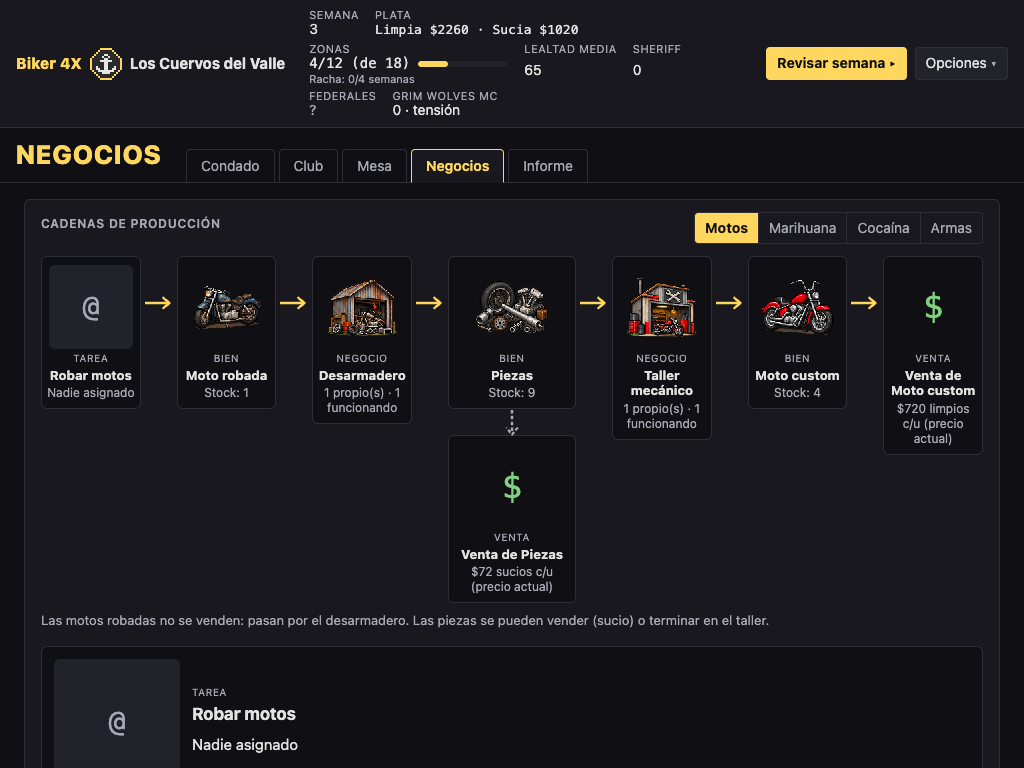
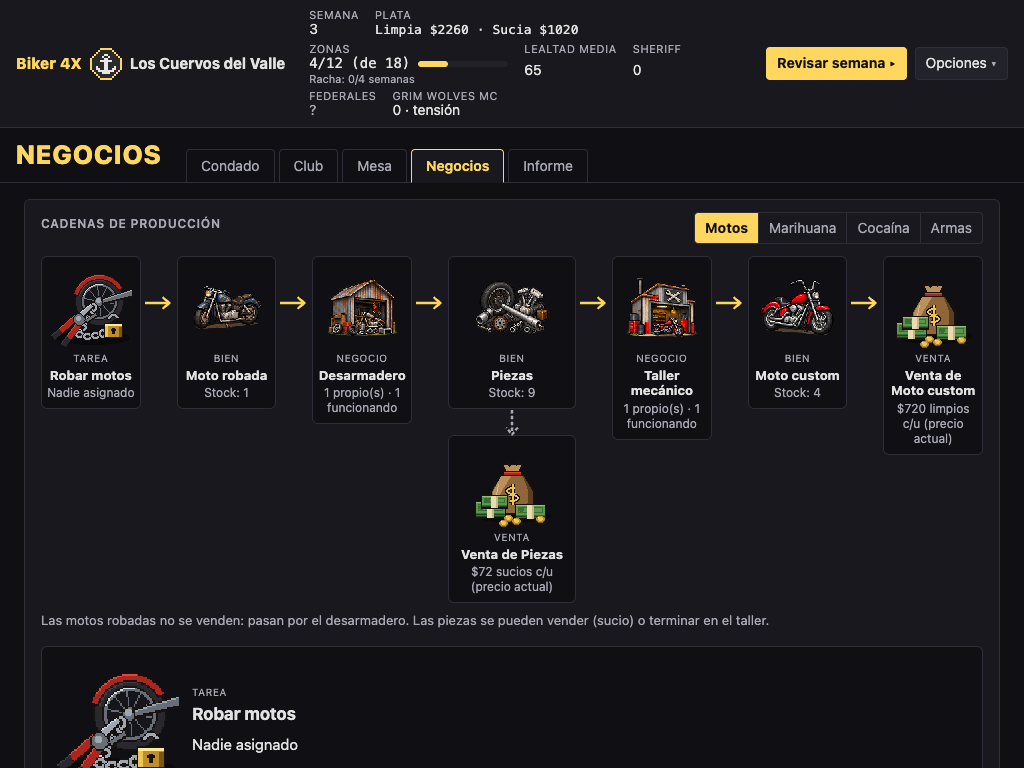
Ilustraciones de Robar motos y Venta dibujadas con código en el estilo del atlas; integradas en las cadenas

diff --git a/tests/revamp.test.ts b/tests/revamp.test.ts
@@ -1,5 +1,6 @@
 import { readFileSync } from "node:fs";
 import { describe, expect, it } from "vitest";
+import extra from "../assets/ui/illustrations-extra.json";
 import manifest from "../assets/ui/source/assets-manifest.json";
 import { addBusiness } from "../src/sim/systems/businesses";
 import { stanceKey } from "../src/sim/systems/diplomacy";
@@ -314,14 +315,24 @@ describe("sede, lavado, cabecera y mesa", () => {
 
 describe("ilustraciones de la interfaz", () => {
   it("hay un PNG por asset del manifest y todos los ids de juego existen", () => {
-    const ids = new Set([...baseData.goods.map((g) => g.id), ...baseData.businesses.map((b) => b.id)]);
+    const ids = new Set([...baseData.goods.map((g) => g.id), ...baseData.businesses.map((b) => b.id), ...baseData.tasks.map((t) => t.id)]);
     expect(manifest.assets).toHaveLength(16);
-    for (const a of manifest.assets) {
+    for (const a of [...manifest.assets, ...extra.assets]) {
       const png = readFileSync(new URL(`../assets/ui/illustrations/${a.filename}`, import.meta.url));
       expect(png.subarray(1, 4).toString(), a.filename).toBe("PNG");
       // 252×252 canvas (width and height in the IHDR chunk).
       expect([png.readUInt32BE(16), png.readUInt32BE(20)], a.filename).toEqual([252, 252]);
       if (a.gameId) expect(ids.has(a.gameId), a.gameId).toBe(true);
+    }
+  });
+
+  it("cada nodo de las cadenas tiene ilustración (robar motos y venta incluidas)", () => {
+    const known = new Set([...manifest.assets, ...extra.assets].map((a) => a.id));
+    const state = newState();
+    for (const id of CHAIN_IDS) {
+      for (const n of chainView(state, baseData, PLAYER, id, { draft: {}, management: [] }).nodes) {
+        expect(n.illustrationId && known.has(n.illustrationId), `${id}: ${n.key}`).toBe(true);
+      }
     }
   });
 

diff --git a/src/ui/panels/business.ts b/src/ui/panels/business.ts
@@ -49,7 +49,7 @@ function nodeCard(ctx: UiContext, node: ChainNode): HTMLElement {
       onclick: () => set({ chainNode: selected ? null : node.key }),
     },
     [
-      node.kind === "sale" ? h("span", { class: "sale-badge", "aria-hidden": "true" }, ["$"]) : illustration(node.illustrationId, "medium", name, node.glyph),
+      illustration(node.illustrationId, "medium", name, node.glyph),
       h("span", { class: "node-kind" }, [tr(`chain.kind.${node.kind}`)]),
       h("strong", { class: "node-name" }, [name]),
       h("span", { class: "node-status" }, [msg(data, node.status)]),
@@ -206,7 +206,7 @@ function nodeDetail(ctx: UiContext, view: ChainView): HTMLElement {
     node.kind === "good" ? goodDetail(ctx, node) : node.kind === "business" ? businessDetail(ctx, node) : node.kind === "task" ? taskDetail(ctx, node) : node.kind === "cartel" ? cartelDetail(ctx, node) : saleDetail(ctx, node);
   return h("aside", { class: "chain-detail", "aria-live": "polite" }, [
     h("div", { class: "detail-head" }, [
-      node.kind === "sale" ? null : illustration(node.illustrationId, "large", name, node.glyph),
+      illustration(node.illustrationId, "large", name, node.glyph),
       h("div", {}, [h("span", { class: "node-kind" }, [tr(`chain.kind.${node.kind}`)]), h("h2", {}, [name]), h("p", {}, [msg(data, node.status)])]),
     ]),
     node.blocked ? h("p", { class: "block-msg" }, [h("strong", {}, [tr("chain.blocked_short"), ": "]), msg(data, node.blocked)]) : null,

diff --git a/src/ui/productionChains.ts b/src/ui/productionChains.ts
@@ -183,12 +183,16 @@ function nodeKey(step: StepDef): string {
   }
 }
 
-/** Illustration for a game id, following assets-manifest.json (tasks reuse other pictures). */
+/** Illustration for a task: its own (illustrations-extra.json) or one reused per assets-manifest.json. */
 export const TASK_ILLUSTRATIONS: Record<string, string> = {
+  task_steal_bikes: "task_steal_bikes",
   task_cultivate: "business_plantation",
   task_retail: "distribution_task",
   task_gun_run: "distribution_task",
 };
+
+/** Every sale node shows the money illustration; the price and currency are written next to it. */
+export const SALE_ILLUSTRATION = "sale_money";
 
 function businessStatus(state: GameState, b: GameState["businesses"][number]): "working" | "new" | "suspended" {
   return b.suspended ? "suspended" : b.builtWeek >= state.week ? "new" : "working";
@@ -353,7 +357,7 @@ function saleNode(state: GameState, data: GameData, goodId: string, via: string 
     kind: "sale",
     refId: goodId,
     nameKey: via ? "chain.sale.task" : "chain.sale.management",
-    illustrationId: null,
+    illustrationId: SALE_ILLUSTRATION,
     glyph: "$",
     status: price === null ? { key: "ui.biz.not_sold" } : { key: "chain.sale.price", params: { price, currencyKey: currencyKey ?? "" } },
     blocked: null,

diff --git a/src/ui/assets.ts b/src/ui/assets.ts
@@ -2,6 +2,7 @@
 // Only for interface panels: map tiles never use them. URLs come from Vite, so they work in dev, in the build and
 // in the Tauri app. A missing or broken picture falls back to the game's glyph, without breaking the panel.
 
+import extra from "../../assets/ui/illustrations-extra.json";
 import manifest from "../../assets/ui/source/assets-manifest.json";
 import { h } from "./dom";
 
@@ -12,7 +13,8 @@ export const ILLUSTRATION_SIZE = 252;
 export const ILLUSTRATION_SIZES = { small: ILLUSTRATION_SIZE / 4, medium: ILLUSTRATION_SIZE / 3, large: ILLUSTRATION_SIZE / 2 } as const;
 export type IllustrationSize = keyof typeof ILLUSTRATION_SIZES;
 
-const byId = new Map(manifest.assets.map((a) => [a.id, a.filename]));
+/** Atlas cuts plus the illustrations drawn with code (scripts/draw-ui-illustrations.py). */
+const byId = new Map([...manifest.assets, ...extra.assets].map((a) => [a.id, a.filename]));
 
 export function illustrationUrl(id: string | null): string | null {
   const file = id ? byId.get(id) : undefined;

diff --git a/src/ui/style.css b/src/ui/style.css
@@ -235,7 +235,6 @@ ul.votes li { display: flex; gap: var(--s2); align-items: center; }
 .node-name { font-size: 13px; line-height: 1.2; }
 .node-status { font-size: 12px; color: var(--text-2); line-height: 1.25; }
 .node-block { font-size: 11px; font-weight: 700; color: var(--danger); }
-.sale-badge { display: grid; place-items: center; width: 84px; height: 84px; font-family: var(--mono); font-size: 34px; color: var(--ok); }
 .notes { margin-top: var(--s2); }
 .chain-detail { background: var(--bg); border: 1px solid var(--border); border-radius: 6px; padding: var(--s3); display: grid; gap: var(--s2); align-content: start; }
 .detail-head { display: flex; gap: var(--s3); align-items: center; }

diff --git a/scripts/draw-ui-illustrations.py b/scripts/draw-ui-illustrations.py
@@ -1,0 +1,201 @@
+#!/usr/bin/env python3
+"""Draws the UI illustrations the atlas doesn't have: "Robar motos" (task) and the sale node.
+
+Hand-made with code for this project, in the atlas's style: thick dark outline, 3-4 tone shading, warm light from
+the upper left, a soft ground shadow. Drawn on an 84x84 grid and scaled x3 (nearest neighbour) to the same
+252x252 transparent canvas as the other illustrations, so the grain matches (about 3 px).
+
+Writes assets/ui/illustrations/task_steal_bikes.png and sale_money.png.
+Usage: python3 scripts/draw-ui-illustrations.py
+"""
+import math
+from pathlib import Path
+
+from PIL import Image, ImageDraw
+
+ROOT = Path(__file__).resolve().parent.parent
+OUT = ROOT / "assets" / "ui" / "illustrations"
+BASE = 84
+SCALE = 3
+
+OUTLINE = (24, 18, 14, 255)
+SHADOW = (0, 0, 0, 90)
+
+STEEL = [(58, 62, 70, 255), (104, 110, 120, 255), (160, 166, 176, 255), (214, 220, 228, 255)]
+RUBBER = [(22, 22, 26, 255), (40, 40, 46, 255), (62, 62, 70, 255)]
+RED = [(110, 20, 18, 255), (170, 38, 30, 255), (222, 72, 52, 255)]
+BRASS = [(122, 86, 24, 255), (190, 142, 42, 255), (236, 196, 88, 255), (255, 232, 150, 255)]
+GREEN = [(32, 66, 34, 255), (58, 108, 52, 255), (92, 150, 76, 255), (146, 194, 120, 255)]
+PAPER = [(196, 182, 136, 255), (232, 220, 176, 255)]
+BURLAP = [(92, 62, 34, 255), (142, 102, 58, 255), (186, 144, 92, 255), (220, 184, 130, 255)]
+
+
+def canvas() -> tuple[Image.Image, ImageDraw.ImageDraw]:
+    img = Image.new("RGBA", (BASE, BASE), (0, 0, 0, 0))
+    return img, ImageDraw.Draw(img)
+
+
+def shadow(d: ImageDraw.ImageDraw, box: tuple[int, int, int, int]) -> None:
+    d.ellipse(box, fill=SHADOW)
+
+
+def thick_line(d: ImageDraw.ImageDraw, a: tuple[float, float], b: tuple[float, float], width: int, tones: list, outline=OUTLINE) -> None:
+    """A bar with outline, base colour and a highlight along its upper edge."""
+    d.line([a, b], fill=outline, width=width + 2)
+    d.line([a, b], fill=tones[1], width=width)
+    dx, dy = b[0] - a[0], b[1] - a[1]
+    length = math.hypot(dx, dy) or 1
+    nx, ny = -dy / length, dx / length
+    if ny > 0:
+        nx, ny = -nx, -ny
+    off = (width - 1) / 2
+    d.line([(a[0] + nx * off, a[1] + ny * off), (b[0] + nx * off, b[1] + ny * off)], fill=tones[2], width=1)
+
+
+def save(img: Image.Image, name: str) -> None:
+    big = img.resize((BASE * SCALE, BASE * SCALE), Image.NEAREST)
+    OUT.mkdir(parents=True, exist_ok=True)
+    big.save(OUT / name, optimize=True)
+    print(f"{name}: {big.size[0]}x{big.size[1]}")
+
+
+def link(d: ImageDraw.ImageDraw, x: int, y: int, horizontal: bool) -> None:
+    """One chain link: outlined steel ring with a highlight."""
+    w, h = (4, 3) if horizontal else (3, 4)
+    d.ellipse((x - w - 1, y - h - 1, x + w + 1, y + h + 1), fill=OUTLINE)
+    d.ellipse((x - w, y - h, x + w, y + h), fill=STEEL[2])
+    d.ellipse((x - w + 2, y - h + 2, x + w - 2, y + h - 2), fill=OUTLINE)
+    d.point((x - w + 1, y - h + 1), fill=STEEL[3])
+
+
+def steal_bikes() -> None:
+    """A motorcycle wheel locked with a chain; the chain is cut, the padlock hangs open and the bolt cutters lie in front."""
+    img, d = canvas()
+    shadow(d, (6, 66, 80, 79))
+
+    # Wheel with fender and a bit of the swingarm, seen from the side.
+    cx, cy, r = 50, 36, 23
+    d.ellipse((cx - r - 1, cy - r - 1, cx + r + 1, cy + r + 1), fill=OUTLINE)
+    d.ellipse((cx - r, cy - r, cx + r, cy + r), fill=RUBBER[1])
+    d.arc((cx - r + 1, cy - r + 1, cx + r - 1, cy + r - 1), 195, 285, fill=RUBBER[2], width=2)
+    rr = r - 6
+    d.ellipse((cx - rr - 1, cy - rr - 1, cx + rr + 1, cy + rr + 1), fill=OUTLINE)
+    d.ellipse((cx - rr, cy - rr, cx + rr, cy + rr), fill=STEEL[1])
+    d.ellipse((cx - rr + 2, cy - rr + 2, cx + rr - 2, cy + rr - 2), fill=RUBBER[0])
+    for i in range(10):
+        ang = i * math.pi / 5 + 0.2
+        d.line([(cx, cy), (cx + math.cos(ang) * (rr - 2), cy + math.sin(ang) * (rr - 2))], fill=STEEL[1], width=1)
+    d.arc((cx - rr, cy - rr, cx + rr, cy + rr), 200, 280, fill=STEEL[3], width=1)
+    d.ellipse((cx - 5, cy - 5, cx + 5, cy + 5), fill=OUTLINE)
+    d.ellipse((cx - 4, cy - 4, cx + 4, cy + 4), fill=STEEL[1])
+    d.ellipse((cx - 3, cy - 3, cx + 1, cy + 1), fill=STEEL[2])
+    d.arc((cx - r - 4, cy - r - 4, cx + r + 4, cy + r + 4), 195, 330, fill=OUTLINE, width=6)
+    d.arc((cx - r - 3, cy - r - 3, cx + r + 3, cy + r + 3), 197, 328, fill=RED[1], width=4)
+    d.arc((cx - r - 3, cy - r - 3, cx + r + 3, cy + r + 3), 210, 280, fill=RED[2], width=1)
+    d.polygon([(cx + 2, cy - 3), (82, cy - 12), (82, cy - 4), (cx + 3, cy + 3)], fill=OUTLINE)
+    d.polygon([(cx + 4, cy - 2), (82, cy - 11), (82, cy - 6), (cx + 4, cy + 1)], fill=STEEL[1])
+    d.line([(cx + 4, cy - 2), (82, cy - 11)], fill=STEEL[2])
+
+    # Chain: through the spokes, down the front of the tyre, cut halfway; the loose end lies on the ground.
+    for x, y, hz in [(cx - 6, cy + 6, False), (cx - 10, cy + 13, True), (cx - 14, cy + 19, False), (cx - 17, cy + 26, True)]:
+        link(d, x, y, hz)
+    for x, y, hz in [(30, 69, True), (38, 71, True), (46, 70, True), (53, 68, False)]:
+        link(d, x, y, hz)
+    # The cut: two half links with bright fresh steel.
+    d.arc((26, 63, 34, 69), 200, 340, fill=OUTLINE, width=3)
+    d.arc((27, 64, 33, 68), 210, 330, fill=STEEL[3], width=1)
+
+    # Padlock hanging open from the last link, brass with a sprung shackle.
+    px, py = 64, 62
+    d.arc((px - 6, py - 14, px + 6, py - 2), 180, 360, fill=OUTLINE, width=4)
+    d.arc((px - 5, py - 13, px + 5, py - 3), 185, 340, fill=STEEL[2], width=2)
+    d.rectangle((px - 9, py - 4, px + 9, py + 10), fill=OUTLINE)
+    d.rectangle((px - 8, py - 3, px + 8, py + 9), fill=BRASS[1])
+    d.rectangle((px - 8, py - 3, px + 8, py - 2), fill=BRASS[3])
+    d.rectangle((px - 8, py - 1, px - 6, py + 9), fill=BRASS[2])
+    d.rectangle((px + 6, py, px + 8, py + 9), fill=BRASS[0])
+    d.ellipse((px - 2, py + 1, px + 2, py + 4), fill=OUTLINE)
+    d.rectangle((px - 1, py + 3, px + 1, py + 6), fill=OUTLINE)
+
+    # Bolt cutters across the front: long red handles with black grips, heavy steel jaws.
+    thick_line(d, (4, 72), (27, 52), 5, RED)
+    thick_line(d, (14, 80), (31, 57), 5, RED)
+    for a, b in [((4, 72), (11, 66)), ((14, 80), (19, 73))]:
+        thick_line(d, a, b, 5, RUBBER)
+    d.ellipse((24, 48, 36, 60), fill=OUTLINE)
+    d.ellipse((25, 49, 35, 59), fill=STEEL[1])
+    d.ellipse((27, 51, 31, 55), fill=STEEL[2])
+    d.polygon([(30, 47), (41, 38), (45, 41), (35, 52)], fill=OUTLINE)
+    d.polygon([(31, 47), (41, 39), (43, 41), (34, 50)], fill=STEEL[2])
+    d.line([(31, 47), (41, 39)], fill=STEEL[3])
+    d.polygon([(35, 55), (46, 47), (48, 51), (38, 58)], fill=OUTLINE)
+    d.polygon([(36, 55), (46, 48), (47, 50), (38, 56)], fill=STEEL[1])
+
+    save(img, "task_steal_bikes.png")
+
+
+def bill_stack(d: ImageDraw.ImageDraw, x: int, y: int, w: int, h: int, layers: int) -> None:
+    """A banded stack of green bills seen slightly from above."""
+    d.rectangle((x - 1, y - 1, x + w + 1, y + h + layers + 1), fill=OUTLINE)
+    for i in range(layers):
+        d.rectangle((x, y + h + i, x + w, y + h + i), fill=GREEN[1] if i % 2 else GREEN[0])
+    d.rectangle((x, y, x + w, y + h), fill=GREEN[2])
+    d.rectangle((x, y, x + w, y), fill=GREEN[3])
+    d.rectangle((x + 2, y + 2, x + w - 2, y + h - 2), outline=GREEN[1])
+    band = x + w // 2 - 3
+    d.rectangle((band, y, band + 6, y + h + layers), fill=PAPER[1])
+    d.rectangle((band + 5, y, band + 6, y + h + layers), fill=PAPER[0])
+    d.ellipse((x + 3, y + h // 2 - 2, x + 7, y + h // 2 + 2), fill=GREEN[1])
+
+
+def coin(d: ImageDraw.ImageDraw, x: int, y: int) -> None:
+    d.ellipse((x - 5, y - 3, x + 5, y + 4), fill=OUTLINE)
+    d.ellipse((x - 4, y - 2, x + 4, y + 3), fill=BRASS[0])
+    d.ellipse((x - 4, y - 3, x + 4, y + 2), fill=BRASS[1])
+    d.ellipse((x - 2, y - 2, x + 2, y + 1), fill=BRASS[2])
+    d.point((x - 2, y - 2), fill=BRASS[3])
+
+
+def sale_money() -> None:
+    """A money bag with a dollar sign, banded stacks of bills and a few coins."""
+    img, d = canvas()
+    shadow(d, (6, 64, 80, 78))
+
+    # Bag behind: burlap sack tied at the neck.
+    d.polygon([(30, 30), (54, 30), (64, 46), (64, 62), (58, 70), (26, 70), (20, 62), (20, 46)], fill=OUTLINE)
+    d.polygon([(31, 32), (53, 32), (62, 47), (62, 61), (57, 68), (27, 68), (22, 61), (22, 47)], fill=BURLAP[1])
+    d.polygon([(31, 32), (40, 32), (30, 48), (26, 64), (23, 60), (23, 47)], fill=BURLAP[2])
+    d.line([(28, 40), (25, 56)], fill=BURLAP[3], width=1)
+    d.polygon([(53, 32), (62, 47), (62, 61), (57, 68), (52, 68), (58, 58), (58, 46)], fill=BURLAP[0])
+    # Neck and tie.
+    d.polygon([(32, 20), (52, 20), (48, 30), (36, 30)], fill=OUTLINE)
+    d.polygon([(34, 21), (50, 21), (47, 29), (37, 29)], fill=BURLAP[2])
+    d.rectangle((33, 27, 51, 31), fill=OUTLINE)
+    d.rectangle((34, 28, 50, 30), fill=RED[1])
+    d.line([(34, 28), (50, 28)], fill=RED[2])
+    d.line([(36, 18), (39, 21)], fill=OUTLINE, width=2)
+    d.line([(48, 18), (45, 21)], fill=OUTLINE, width=2)
+    # Dollar sign stamped on the bag.
+    sx, sy = 42, 50
+    d.line([(sx, sy - 10), (sx, sy + 10)], fill=OUTLINE, width=4)
+    d.arc((sx - 7, sy - 8, sx + 7, sy + 1), 60, 290, fill=OUTLINE, width=4)
+    d.arc((sx - 7, sy - 1, sx + 7, sy + 8), 240, 110, fill=OUTLINE, width=4)
+    d.line([(sx, sy - 10), (sx, sy + 10)], fill=BRASS[2], width=2)
+    d.arc((sx - 6, sy - 7, sx + 6, sy), 60, 290, fill=BRASS[2], width=2)
+    d.arc((sx - 6, sy, sx + 6, sy + 7), 240, 110, fill=BRASS[2], width=2)
+
+    # Bills in front: two stacks, one leaning on the other.
+    bill_stack(d, 6, 58, 28, 10, 5)
+    bill_stack(d, 46, 61, 28, 9, 4)
+    bill_stack(d, 12, 52, 24, 8, 3)
+
+    # Coins scattered in front.
+    for x, y in [(38, 74), (46, 77), (33, 79), (70, 75)]:
+        coin(d, x, y)
+
+    save(img, "sale_money.png")
+
+
+if __name__ == "__main__":
+    steal_bikes()
+    sale_money()

diff --git a/docs/revamp/README.md b/docs/revamp/README.md
@@ -40,8 +40,7 @@ Ver `assets/ui/README.md`: 16 recortes del atlas sin re-escalar en lienzos de 25
 
 ## Decisiones y límites
 
-- **Robar motos** no tiene ilustración propia en el atlas: se muestra con el glifo `@` para no repetir la de «Moto robada».
-- **Venta de nodos «$»**: no hay ilustración de venta; se dibuja un `$` (el atlas no trae una y no se inventó).
+- **Robar motos y Venta** no venían en el atlas: se dibujaron con código en el mismo estilo (`scripts/draw-ui-illustrations.py`, registradas en `assets/ui/illustrations-extra.json`). Robar motos: rueda encadenada con la cadena cortada, candado abierto y cizalla. Venta: bolsa de plata, fajos y monedas.
 - **Escala del mapa:** el renderer elige escala entera por ancho. A 1920×1080 el mapa queda a ×2 (1600×1024) y la columna del mapa se desplaza verticalmente; no se tocó la lógica de escala.
 - **Inspector y destino por mapa:** «Mapa» en Club abre el Condado con un aviso; si estabas dentro de un distrito, se mantiene (el brief pide no perderlo) y hay que volver al condado para elegir otro distrito.
 - **Federales ocultos:** la cabecera muestra `?` y el valor no llega al DOM; el aviso de lavado habla de «la investigación federal sube», sin cifras.

diff --git a/assets/ui/README.md b/assets/ui/README.md
@@ -3,7 +3,7 @@
 - `source/ui-assets-atlas.png`: lámina fuente (1254×1254, RGBA, grilla 4×4) **generada con IA para este proyecto**. No es parte del 1-Bit Pack de Kenney y no lleva su licencia.
 - `source/assets-manifest.json`: id de juego, nombre de archivo y celda de cada ilustración (índices desde cero).
 - `source/referencia-ui.png`: boceto de la dirección visual. Sus números y textos no son reglas.
-- `illustrations/*.png`: los 16 recortes que usa la interfaz.
+- `illustrations/*.png`: los 16 recortes del atlas y 2 ilustraciones dibujadas con código para el proyecto (`task_steal_bikes.png`, `sale_money.png`, generadas por `scripts/draw-ui-illustrations.py` y listadas en `illustrations-extra.json`), en el mismo estilo: contorno oscuro, 3-4 tonos, base de 84 px escalada ×3.
 
 Se regeneran con:
 

diff --git a/CLAUDE.md b/CLAUDE.md
@@ -31,6 +31,7 @@ npm run desktop:dev                    # ventana de escritorio con Tauri (requie
 npm run desktop:build                  # instalador local (requiere Rust); el .exe se arma en GitHub Actions, ver docs/ESCRITORIO.md
 node scripts/capture-ui.mjs            # capturas de la interfaz a 1920/1366/1024/768 px con Chrome headless (requiere npm run dev)
 python3 scripts/extract-ui-illustrations.py   # recorta las ilustraciones de interfaz del atlas (assets/ui/source)
+python3 scripts/draw-ui-illustrations.py      # dibuja las ilustraciones que no trae el atlas (robar motos, venta)
 ```
 
 **Una tarea está terminada solo si** `typecheck`, `lint` y `test` pasan. Si tocaste reglas de simulación, corré también `npm run sim` y mencioná si cambió algo raro en las estadísticas.
